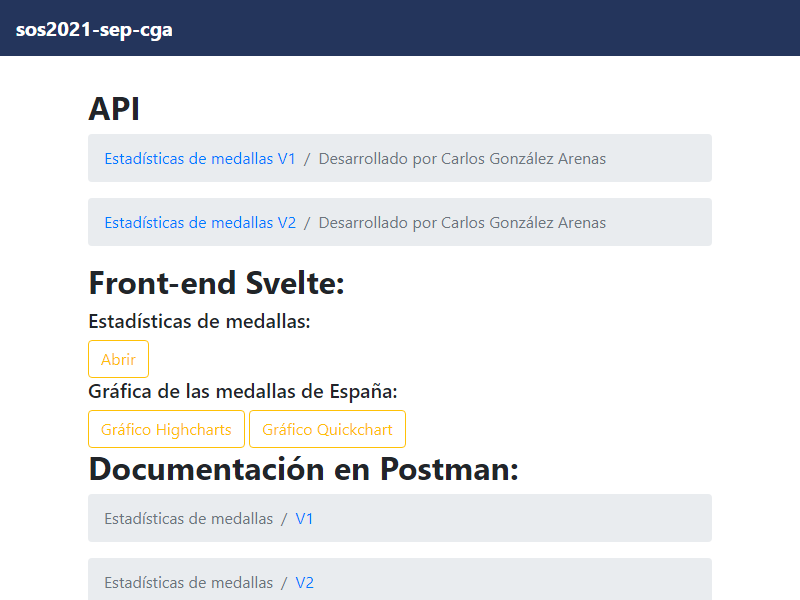
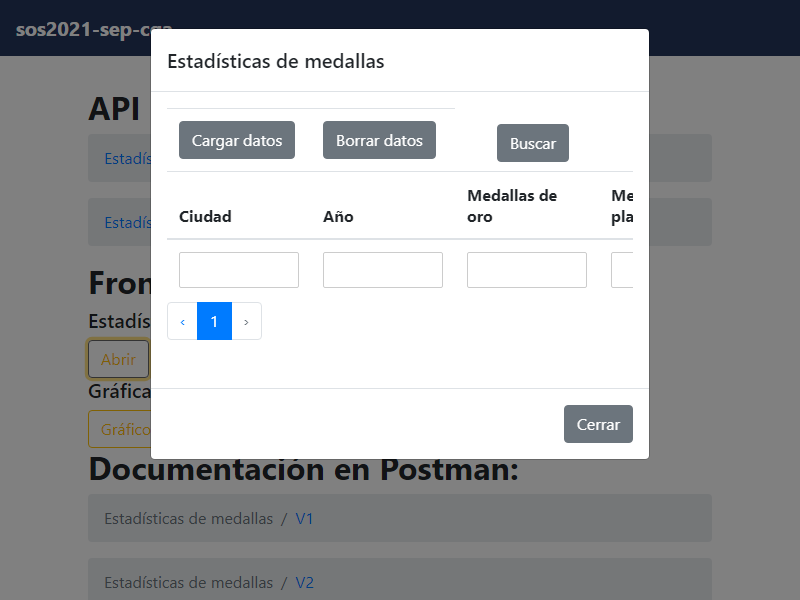
Video

diff --git a/test/e2e.js b/test/e2e.js
@@ -23,10 +23,11 @@ if (!fs.existsSync("e2e_capturas")){
     console.log("-- Test 2 - ¿ La tabla carga los datos ?");
     await page.click("#link-to-table", { waitUntil: "networkidle0" });
     await page.click("#open", { waitUntil: "networkidle0" });
+    await page.click("#charge", { waitUntil: "networkidle0" });
 
     await page.waitForTimeout(1000);
     await page.screenshot({ path: url + 'TableApi.png' });
-    console.log("   The table works...");
+    console.log("La tabla funciona...");
 
 
     await browser.close();

diff --git a/src/frontend/olimpic/OlimpicSv.svelte b/src/frontend/olimpic/OlimpicSv.svelte
@@ -263,7 +263,7 @@ let filterOlimpic= {
 	
 		<thead>
 			<tr>
-				<td><Button on:click={OlimpicData}>Cargar datos</Button></td>
+				<td><Button id='charge' on:click={OlimpicData}>Cargar datos</Button></td>
 				<td><Button on:click={deleteAll}>Borrar datos</Button></td>
 					
 			</tr>
